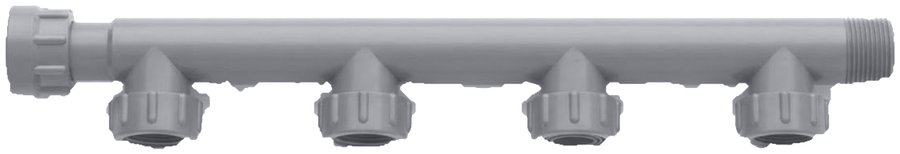
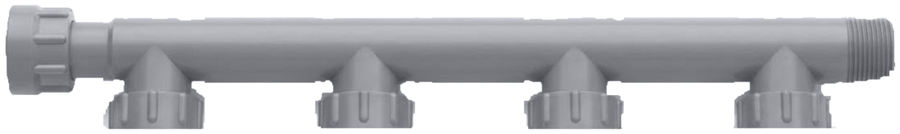
Poser les clarinettes 2, 3 et 4 voies à plat, détourées proprement
Il les voulait à plat comme les autres pièces, et il voyait sur leur
détourage des bouts qui manquaient et d'autres en trop. Leurs photos
étaient prises d'un peu au-dessus : seul le bout de chaque sortie s'y
voyait de face. Cette face est retirée, droite, là où finit le flanc de
l'écrou ; rien n'est déplacé ni étiré.

Le détourage est refait sur ses photos d'origine. Le bas du tube, du col
et de l'écrou union est le reflet de leur haut autour de l'axe du tube :
il tombe sur l'ombre de contact, où la teinte hésite d'un bloc de
compression à l'autre, et c'est là que naissaient les crans et les
copeaux. Le tube y retrouve son vrai dessous, que l'ancien détourage
rognait. Même échelle qu'avant ; l'axe du tube et le milieu de chaque
sortie sont remesurés, et le rendu à 3x tient sous 1 px (725 pièces, de
1 à 6 voies), le milieu de chaque sortie compris.

La légende ne porte plus « à reprendre à plat » : plus aucune pièce
n'attend.

Claude-Session: https://claude.ai/code/session_01HCXqYC7rsrdS1vjg7Nqc6M

diff --git a/appli/arrosage-nourrice-vue-du-dessus.html b/appli/arrosage-nourrice-vue-du-dessus.html
@@ -77,17 +77,29 @@
   même forme ; la légende garde le nom de la fiche.
 
   TOUTES LES PIÈCES À PLAT, sa règle du même soir : couchées, vues de profil,
-  leur axe dans le plan de la photo, sans qu'on voie la face d'un bout. Les
-  photos qui ne le sont pas (prises d'un peu au-dessus : on voit l'intérieur
-  d'un bout) le disent dans la légende, « à reprendre à plat » ; aucune ne se
-  redresse à l'ordinateur, une image ne se déforme pas.
+  leur axe dans le plan de la photo, sans qu'on voie la face d'un bout. Une
+  image ne se déforme pas : ni penchée, ni étirée.
+
+  LES CLARINETTES À PLAT (sa demande du même soir, « mets la clarinette 2, 3
+  et 4 voies à plat », et « il y a des bouts qui manquent, et à d'autres
+  endroits il y en a en trop »). Leurs photos étaient prises d'un peu
+  au-dessus : seul le bout de chaque sortie s'y voyait de face (l'anneau et le
+  trou). Cette face est RETIRÉE, droite, là où finit le flanc de l'écrou ; rien
+  n'est déplacé ni étiré, et le tube, l'écrou union et le filetage étaient
+  déjà de profil. Le détourage est refait sur ses photos d'origine : le PVC est
+  bleuté, l'ombre neutre ; le bas du tube, du col et de l'écrou union est le
+  reflet de leur haut autour de l'axe du tube (ce sont des pièces qui tournent
+  autour de lui), parce que leur bas tombe sur l'ombre de contact, où la teinte
+  hésite d'un bloc de compression à l'autre. C'est là que le détourage d'avant
+  faisait ses crans et ses copeaux. Le tube y gagne son vrai dessous : le
+  détourage d'avant en avait rogné une bande. Même échelle qu'avant (w).
 
   LE MAMELON 1" (la pièce entre le coude ou le té et l'électrovanne FF d'une
   voie de goutte-à-goutte) : la photo trouvée en ligne était de biais. Sa
   demande : « mets-les à plat comme les autres unions ». Il prend sa photo de
   mamelon, celle des autres colonnes (un réduit 1" x 3/4", la même forme), le
   côté 1" en haut ; la légende garde le nom de la fiche. Sa photo de mamelon
-  quitte aussi la liste « à reprendre à plat » : il la tient pour à plat.
+  est tenue pour à plat.
 
   UN SEUL GRIS, CLAIR, pour toutes les pièces en PVC gris (sa demande du même
   soir : « soit toutes grises claires, soit toutes grises foncées ; gris clair,
@@ -224,8 +236,6 @@
   // gardent celle d'avant, et la légende le dit (« photo d'avant »).
   var TES = {
     aRefaire: ["regulateur-ff34"],
-    // Prises d'un peu au-dessus : l'intérieur d'un bout se voit. Elles attendent une photo à plat.
-    pasAPlat: ["clarinette-2v", "clarinette-3v", "clarinette-4v"],
     photos: {
       "coude-mf": "coude-mf-dessus.png", "coude-ff": "coude-ff-dessus.png", "te-mmf": "te-mmf-dessus.png",
       "clarinette-2v": "clarinette-2v-dessus.png", "clarinette-3v": "clarinette-3v-dessus.png", "clarinette-4v": "clarinette-4v-dessus.png",
@@ -242,9 +252,9 @@
       "coude-mf":      { h: 47, vertical: 0.2557, horizontal: 0.2389 },
       "coude-ff":      { h: 46, vertical: 0.7276, horizontal: 0.2613, quart: true },
       "te-mmf":        { h: 47, vertical: 0.5137, horizontal: 0.247, miroir: true },
-      "clarinette-2v": { w: 145, sorties: [0.3154, 0.7679], tube: 0.3294 },
-      "clarinette-3v": { w: 231, sorties: [0.2198, 0.5354, 0.8482], tube: 0.2809 },
-      "clarinette-4v": { w: 271, sorties: [0.1679, 0.4038, 0.6373, 0.8721], tube: 0.3125 }
+      "clarinette-2v": { w: 145, sorties: [0.3147, 0.7697], tube: 0.4018 },
+      "clarinette-3v": { w: 231, sorties: [0.2214, 0.5378, 0.8526], tube: 0.3736 },
+      "clarinette-4v": { w: 271, sorties: [0.1668, 0.4038, 0.6395, 0.874], tube: 0.3618 }
     },
     colonne: {
       "mamelon":            { a: [0.495, 0], b: [0.4883, 1], L: 32.5 },
@@ -436,8 +446,7 @@
       "pehd": "PEHD Ø25", "raccord-male25": nom("raccord-male25") };
     $("legende").innerHTML = ordre.map(function (ref, i) {
       var avant = jeu === "tes" && TES.aRefaire.indexOf(ref) >= 0;
-      var penche = jeu === "tes" && TES.pasAPlat.indexOf(ref) >= 0;
-      return "<li><b>" + (i + 1) + "</b><span>" + texte(NOMS[ref] || nom(ref)) + (avant ? '<span class="avant">photo d’avant</span>' : "") + (penche ? '<span class="avant">à reprendre à plat</span>' : "") + "</span></li>";
+      return "<li><b>" + (i + 1) + "</b><span>" + texte(NOMS[ref] || nom(ref)) + (avant ? '<span class="avant">photo d’avant</span>' : "") + "</span></li>";
     }).join("");
     $("hors").hidden = jeu !== "tes";
     $("legende").hidden = nu;

diff --git a/appli/essais.html b/appli/essais.html
@@ -79,7 +79,7 @@
   </a>
   <a class="essai" href="arrosage-nourrice-vue-du-dessus.html">
     <span class="titre">La nourrice vue du dessus<span class="neuf">nouveau</span></span>
-    <span class="quoi"><b>Vos photos du 21 novembre</b>, posées sur la nourrice éclatée : chaque pièce sur l’axe où elle se visse, de 1 à 6 voies, avec ou sans goutte-à-goutte, avec ou sans numéros, chaque pièce à plat et en gris clair ; la légende dit celles à reprendre à plat. « Avant » remet l’ancienne pour comparer. <b>Rien n’est codé.</b></span>
+    <span class="quoi"><b>Vos photos du 21 novembre</b>, posées sur la nourrice éclatée : chaque pièce sur l’axe où elle se visse, de 1 à 6 voies, avec ou sans goutte-à-goutte, avec ou sans numéros, chaque pièce à plat et en gris clair. « Avant » remet l’ancienne pour comparer. <b>Rien n’est codé.</b></span>
   </a>
   <a class="essai" href="arrosage-dossiers.html">
     <span class="titre">Les dossiers du plan d’arrosage<span class="neuf">nouveau</span></span>
